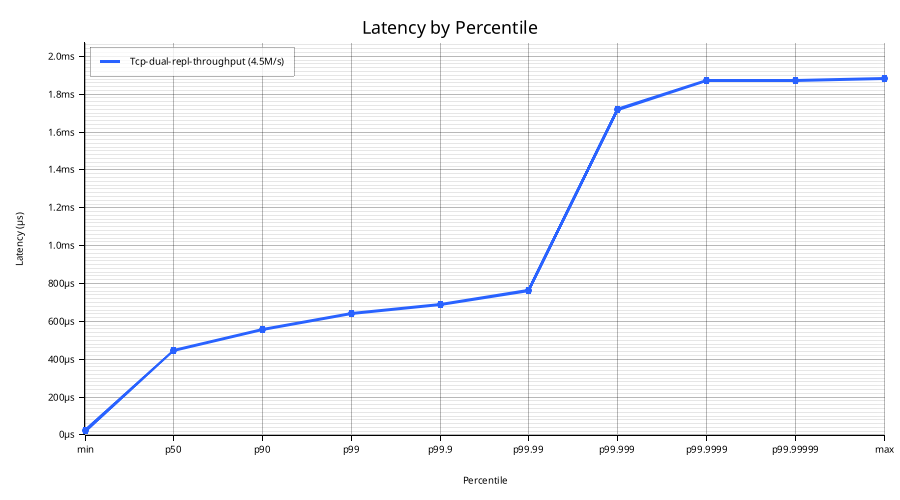
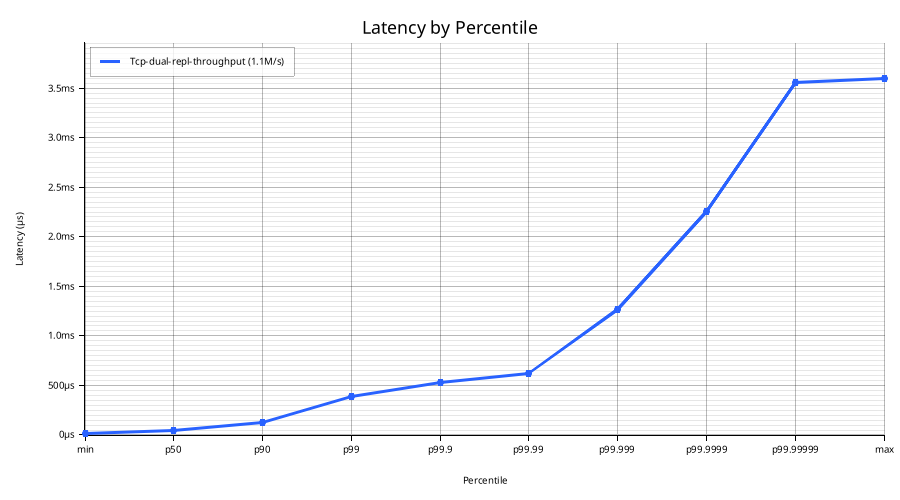
docs(readme): refresh bench figures and hardware spec
- Refresh tcp-dual-repl figures from the EPYC 9255 rig (commit b184e90):
  throughput row uses window=5 (1.09M ord/s, p99 388 µs) and single-order
  row uses the new run (p50 18 µs, p99 24 µs, p99.99 31 µs).
- Correct the hardware spec: AMD EPYC 9255 24C Zen 5 (not Ryzen 9 9950X),
  192 GB DDR5-6400, Micron 7400 PRO PLP NVMe, Intel E810-XXV 25 GbE.
- Reframe the durability column as 'Hybrid (1 persisted + 2 in-memory)'
  with an accurate gate description: persisted>=1 is a real race across
  all nodes (replicas mask the primary's fsync tail), in_memory>=2 is
  primary + fastest replica RAM ack.
- Regenerated latency plots match the new run.

Changed region(s): [[0.0311, 0.06, 0.9956, 0.87], [0.0622, 0.09, 0.0933, 0.12]]

diff --git a/README.md b/README.md
@@ -17,10 +17,10 @@ Melin handles order matching, account balances, risk controls, circuit breakers,
 - BLAKE3 hash chain for tamper evidence
 - Dual-replication to survive and recover from major outage scenarios
 
-**Efficient** — 4.0M orders/sec with synchronous dual replication on regular datacenter hardware.
+**Efficient** — 1.09M orders/sec at sub-400 µs p99 with synchronous dual replication on regular datacenter hardware.
 - Single-threaded matching engine on a lock-free disruptor pipeline
 - Journal, matching, and replication run in parallel via io_uring
-- Sub-50 µs p99 single-order latency with quorum durability (dual replication)
+- 24 µs p99 single-order latency with quorum durability (dual replication)
 
 **Design partners wanted.** We are looking for one or two design partners willing to run Melin in a non-critical capacity — internal crossing, a new instrument, a parallel-run alongside an existing engine — in exchange for direct engineering support and influence over the roadmap. Get in touch: [[email redacted]](mailto:[email redacted]).
 
@@ -33,31 +33,32 @@ All numbers are **full round-trip**:
 3. Matching engine executes
 4. Response arrives at client
 
-Measured over LAN using four AMD Ryzen 9 9950X servers (16C, SMT off, dedicated NVMe journal, 10Gb/s NIC, 1 benchmark, 1 primary, 2 replicas). Commit [`46441eb`](../../commit/46441eb). [Realistic order flow](crates/bench/src/generator.rs). Reproducible via `scripts/lan-bench-suite.sh`. For production deployment and OS tuning, see [operations](docs/operations.md) and [benchmarking](docs/benchmarking.md).
+Measured over LAN using four AMD EPYC 9255 servers (24C Zen 5, SMT off, 192 GB DDR5-6400, dedicated Micron 7400 PRO PLP NVMe for the journal, Intel E810-XXV 25 Gb/s NIC; 1 benchmark, 1 primary, 2 replicas). Commit [`b184e90`](../../commit/b184e90). [Realistic order flow](crates/bench/src/generator.rs). Reproducible via `scripts/lan-bench-suite.sh`. For production deployment and OS tuning, see [operations](docs/operations.md) and [benchmarking](docs/benchmarking.md).
 
-### Peak throughput (16 clients, window 256)
+### Throughput under load (16 clients, window 5)
 
-Kernel TCP over 10 Gbps private VLAN. 
+Kernel TCP over 25 Gb/s private VLAN, `--durability-mode hybrid` (default) with 2 replicas.
 
 | Durability | Throughput | p50 | p99 | p99.9 | p99.99 | max |
 |------------|-----------|-----|-----|-------|--------|-----|
-| **Standalone persistence** | **6.7M/s** | 583 µs | 715 µs | 769 µs | 812 µs | 1,076 µs |
-| **Synchronous replication** (1 replica) | **4.0M/s** | 916 µs | 1,141 µs | 1,236 µs | 1,672 µs | 4,702 µs |
-| **Dual synchronous replication** (2 replicas) | **4.0M/s** | 985 µs | 1,346 µs | 1,488 µs | 1,680 µs | 1,843 µs |
+| **Hybrid** (1 persisted + 2 in-memory, 2 replicas) | **1.09M/s** | 49 µs | 388 µs | 526 µs | 618 µs | 3,596 µs |
 
-Dual replication is the typical production setup for the strongest durability guarantees. With quorum durability (default), the primary only needs 2 of 3 durable copies (journal + 2 replicas) before responding — removing NVMe fsync tail variance from the critical path when both replicas are healthy. Single replication always requires both local fsync and the replica ack.
+**Hybrid** is the typical live-trading deployment. The gate releases an order once **(a)** *any* node has the event durable on PLP-backed NVMe **and** **(b)** at least two nodes hold it in RAM. With one primary plus two replicas this means:
+
+- **`persisted ≥ 1`** — the *fastest* of `{primary fsync, replica 1 fsync, replica 2 fsync}`. The primary usually wins because no network RTT is involved, but when its disk is in a slow window (firmware GC, fsync tail spike, kworker contention) a replica with a healthy disk wins instead — its `network RTT + fsync` beats the primary's stalled local write. This is hybrid's most useful property: **any single node's bad-fsync window is masked as long as one other node has a healthy disk**.
+- **`in_memory ≥ 2`** — primary (always +1 on receipt) plus the *fastest* of `{replica 1 RAM ack, replica 2 RAM ack}`. Pure network RTT, no replica-side disk on the critical path.
+
+The replicas' own fsyncs run *off* the critical path in the common case where the primary wins the persistence race — they trail the ack by ~80 µs. PLP-protected power loss is fully handled; residual exposure is a correlated RAM loss on the acking replica combined with primary-disk hardware failure in that ~80 µs window before the secondary's fsync completes. For stricter compliance regimes that require two on-disk copies before client ack, `--durability-mode durably-replicated` adds the replica fsync back into the gate at a cost of ~50–80 µs per order.
 
 ### Single-order latency (1 client, window 1)
 
-The latency floor — one order at a time, no pipelining, no queuing.
+The latency floor — one order at a time, no pipelining, no queueing.
 
-| Durability | p50 | p90 | p99 | p99.9 | p99.99 | max |
-|-----------|-----|-----|-----|-------|--------|-----|
-| Standalone persistence | 58 µs | 60 µs | 71 µs | 73 µs | 126 µs | 192 µs |
-| **Synchronous replication** (1 replica) | 57 µs | 61 µs | 68 µs | 77 µs | 95 µs | 167 µs |
-| **Dual synchronous replication** (2 replicas) | **35 µs** | **39 µs** | **46 µs** | **54 µs** | **74 µs** | 293 µs |
+| Durability | p50 | p99 | p99.9 | p99.99 | max |
+|-----------|-----|-----|-------|--------|-----|
+| **Hybrid** (1 persisted + 2 in-memory, 2 replicas) | **18 µs** | **24 µs** | **28 µs** | **31 µs** | 67 µs |
 
-Note that **adding a second replica makes the engine faster, not slower**. With quorum durability, the response stage releases an order as soon as the *fastest* of `{local fsync, replica 1 ack, replica 2 ack}` confirms — replicas race the local NVMe rather than serialize behind it. Two replicas turn that into the minimum of three independent durability paths, which collapses the tail and pulls the median below the standalone (no-replica) configuration. Stronger durability and lower latency are usually a tradeoff; here they reinforce each other.
+Same hybrid gate as above, just at window=1 so queueing drops out entirely. The critical path is the *fastest* persistence (primary or replica, whoever wins) plus one replica's RAM-ack RTT in parallel. See [docs/replication.md](docs/replication.md) for the full durability-mode menu and trade-offs.
 
 **Latency CDF** — peak-load modes on the same axes:
 